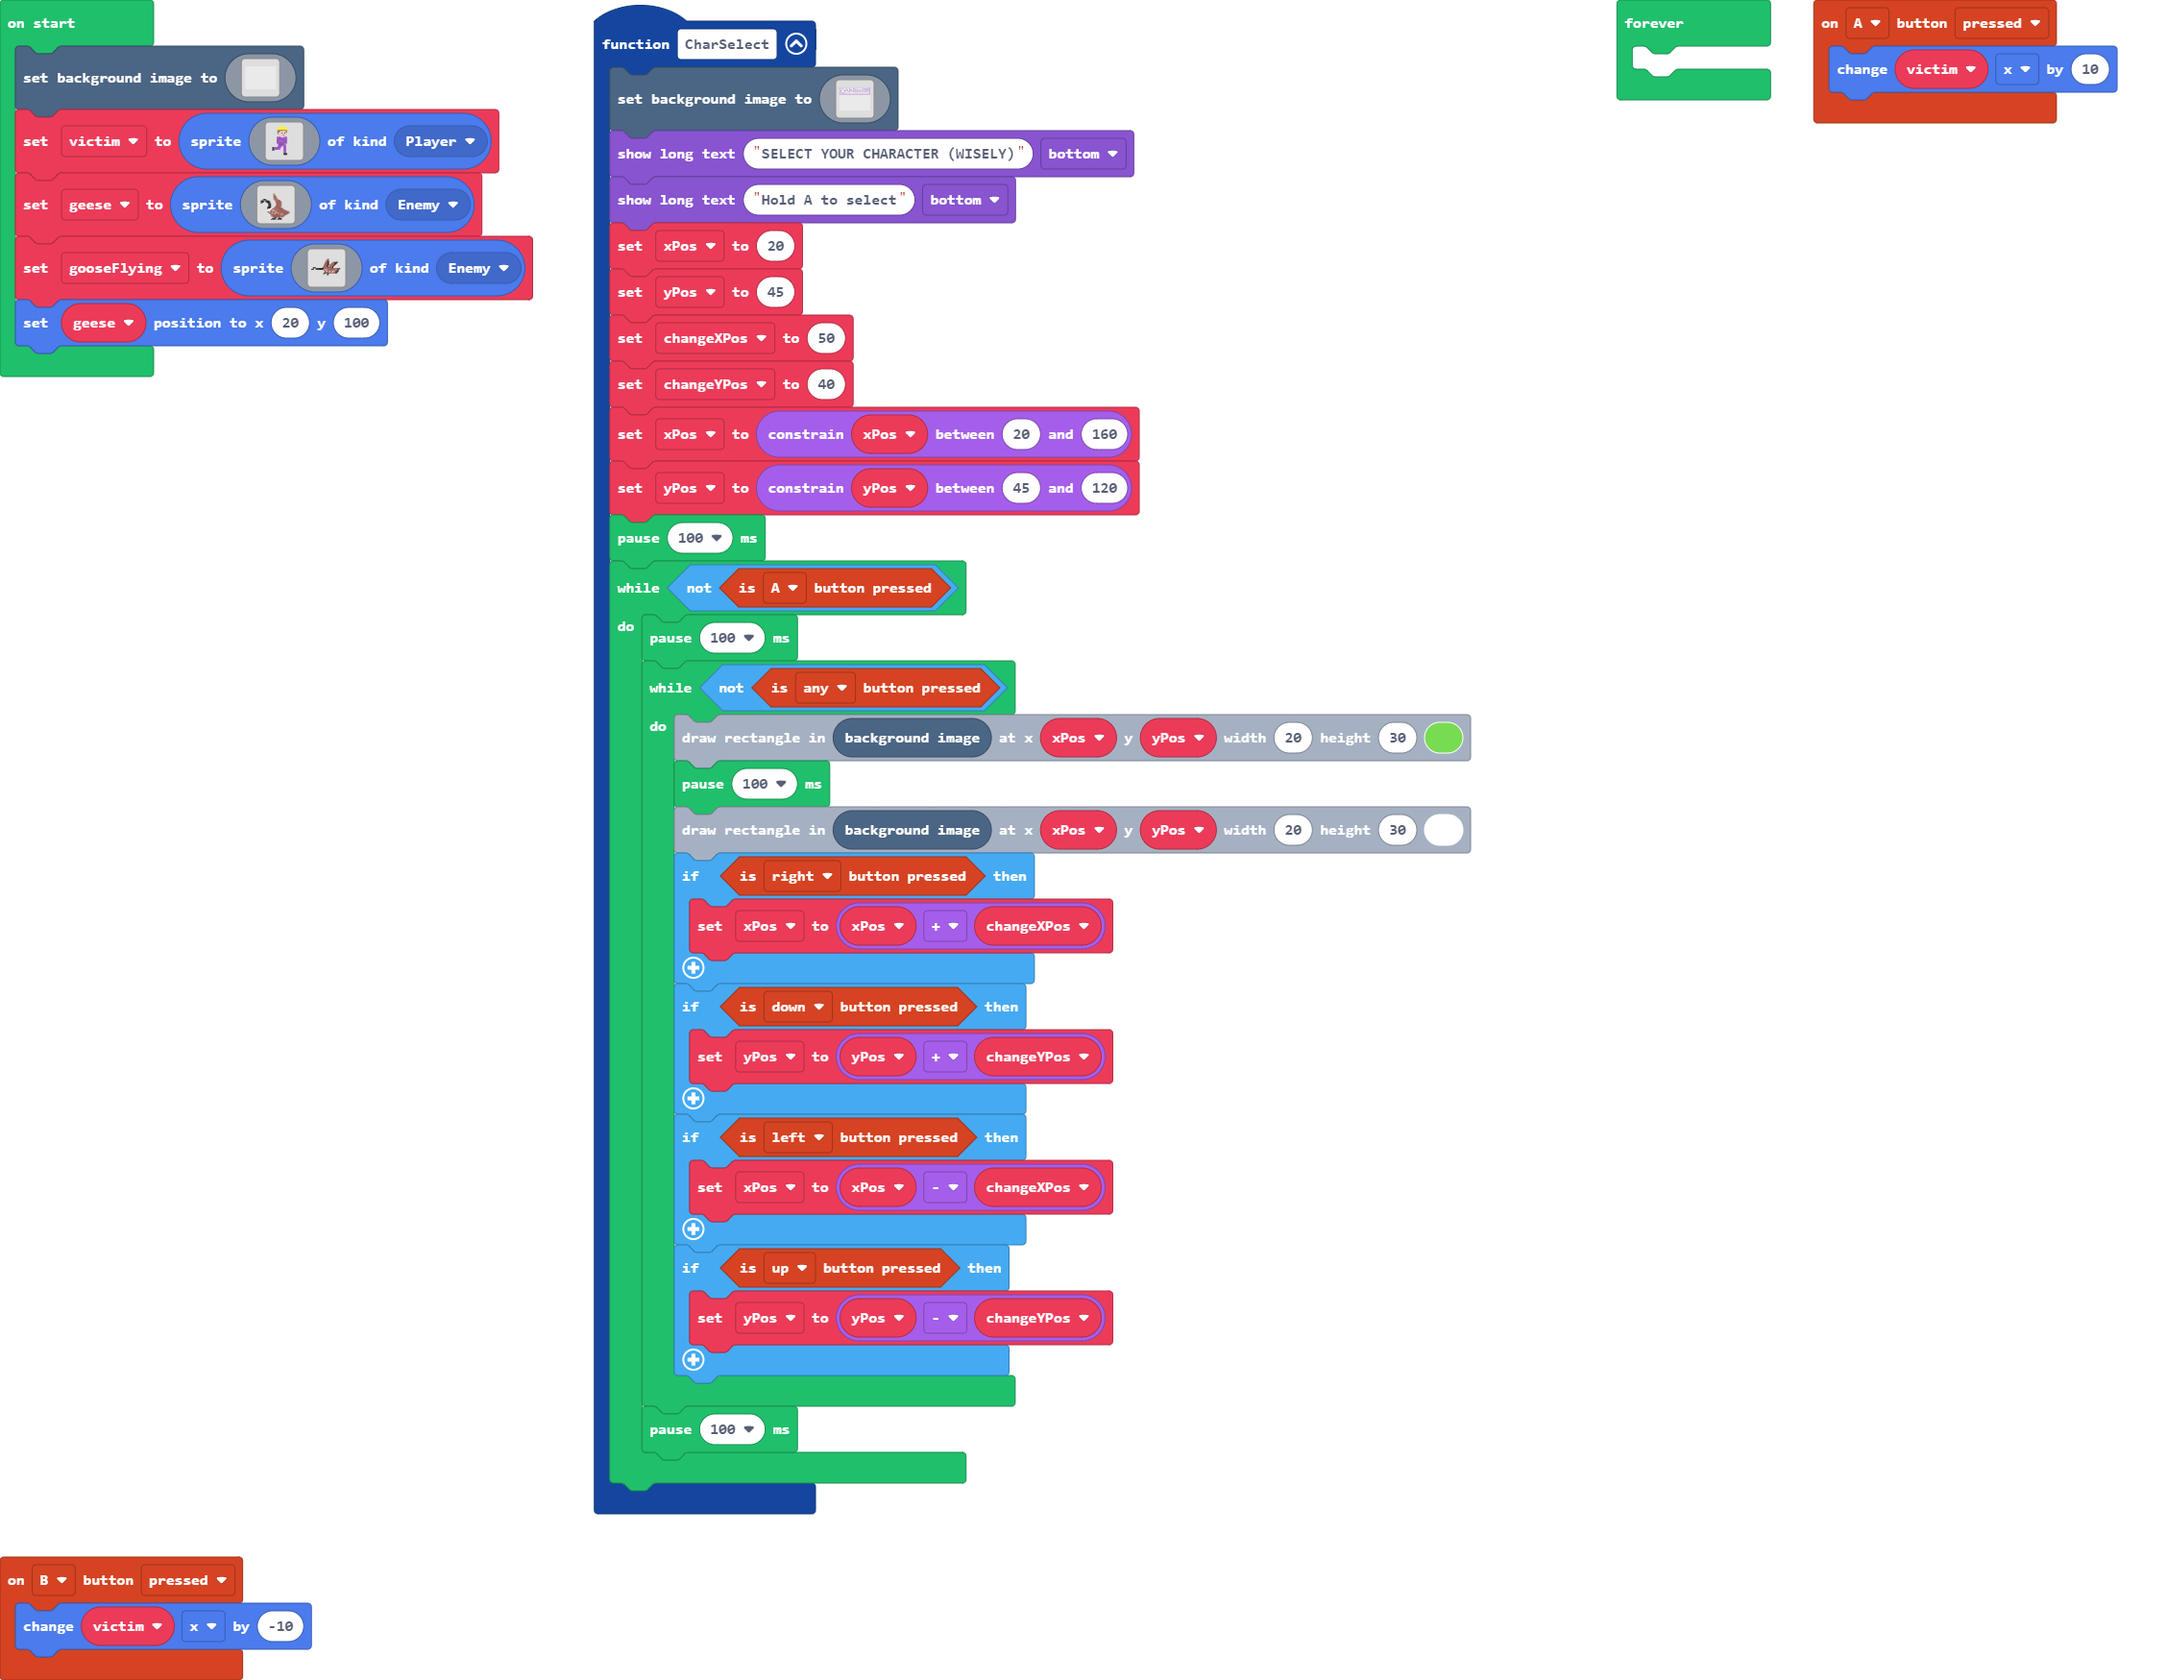
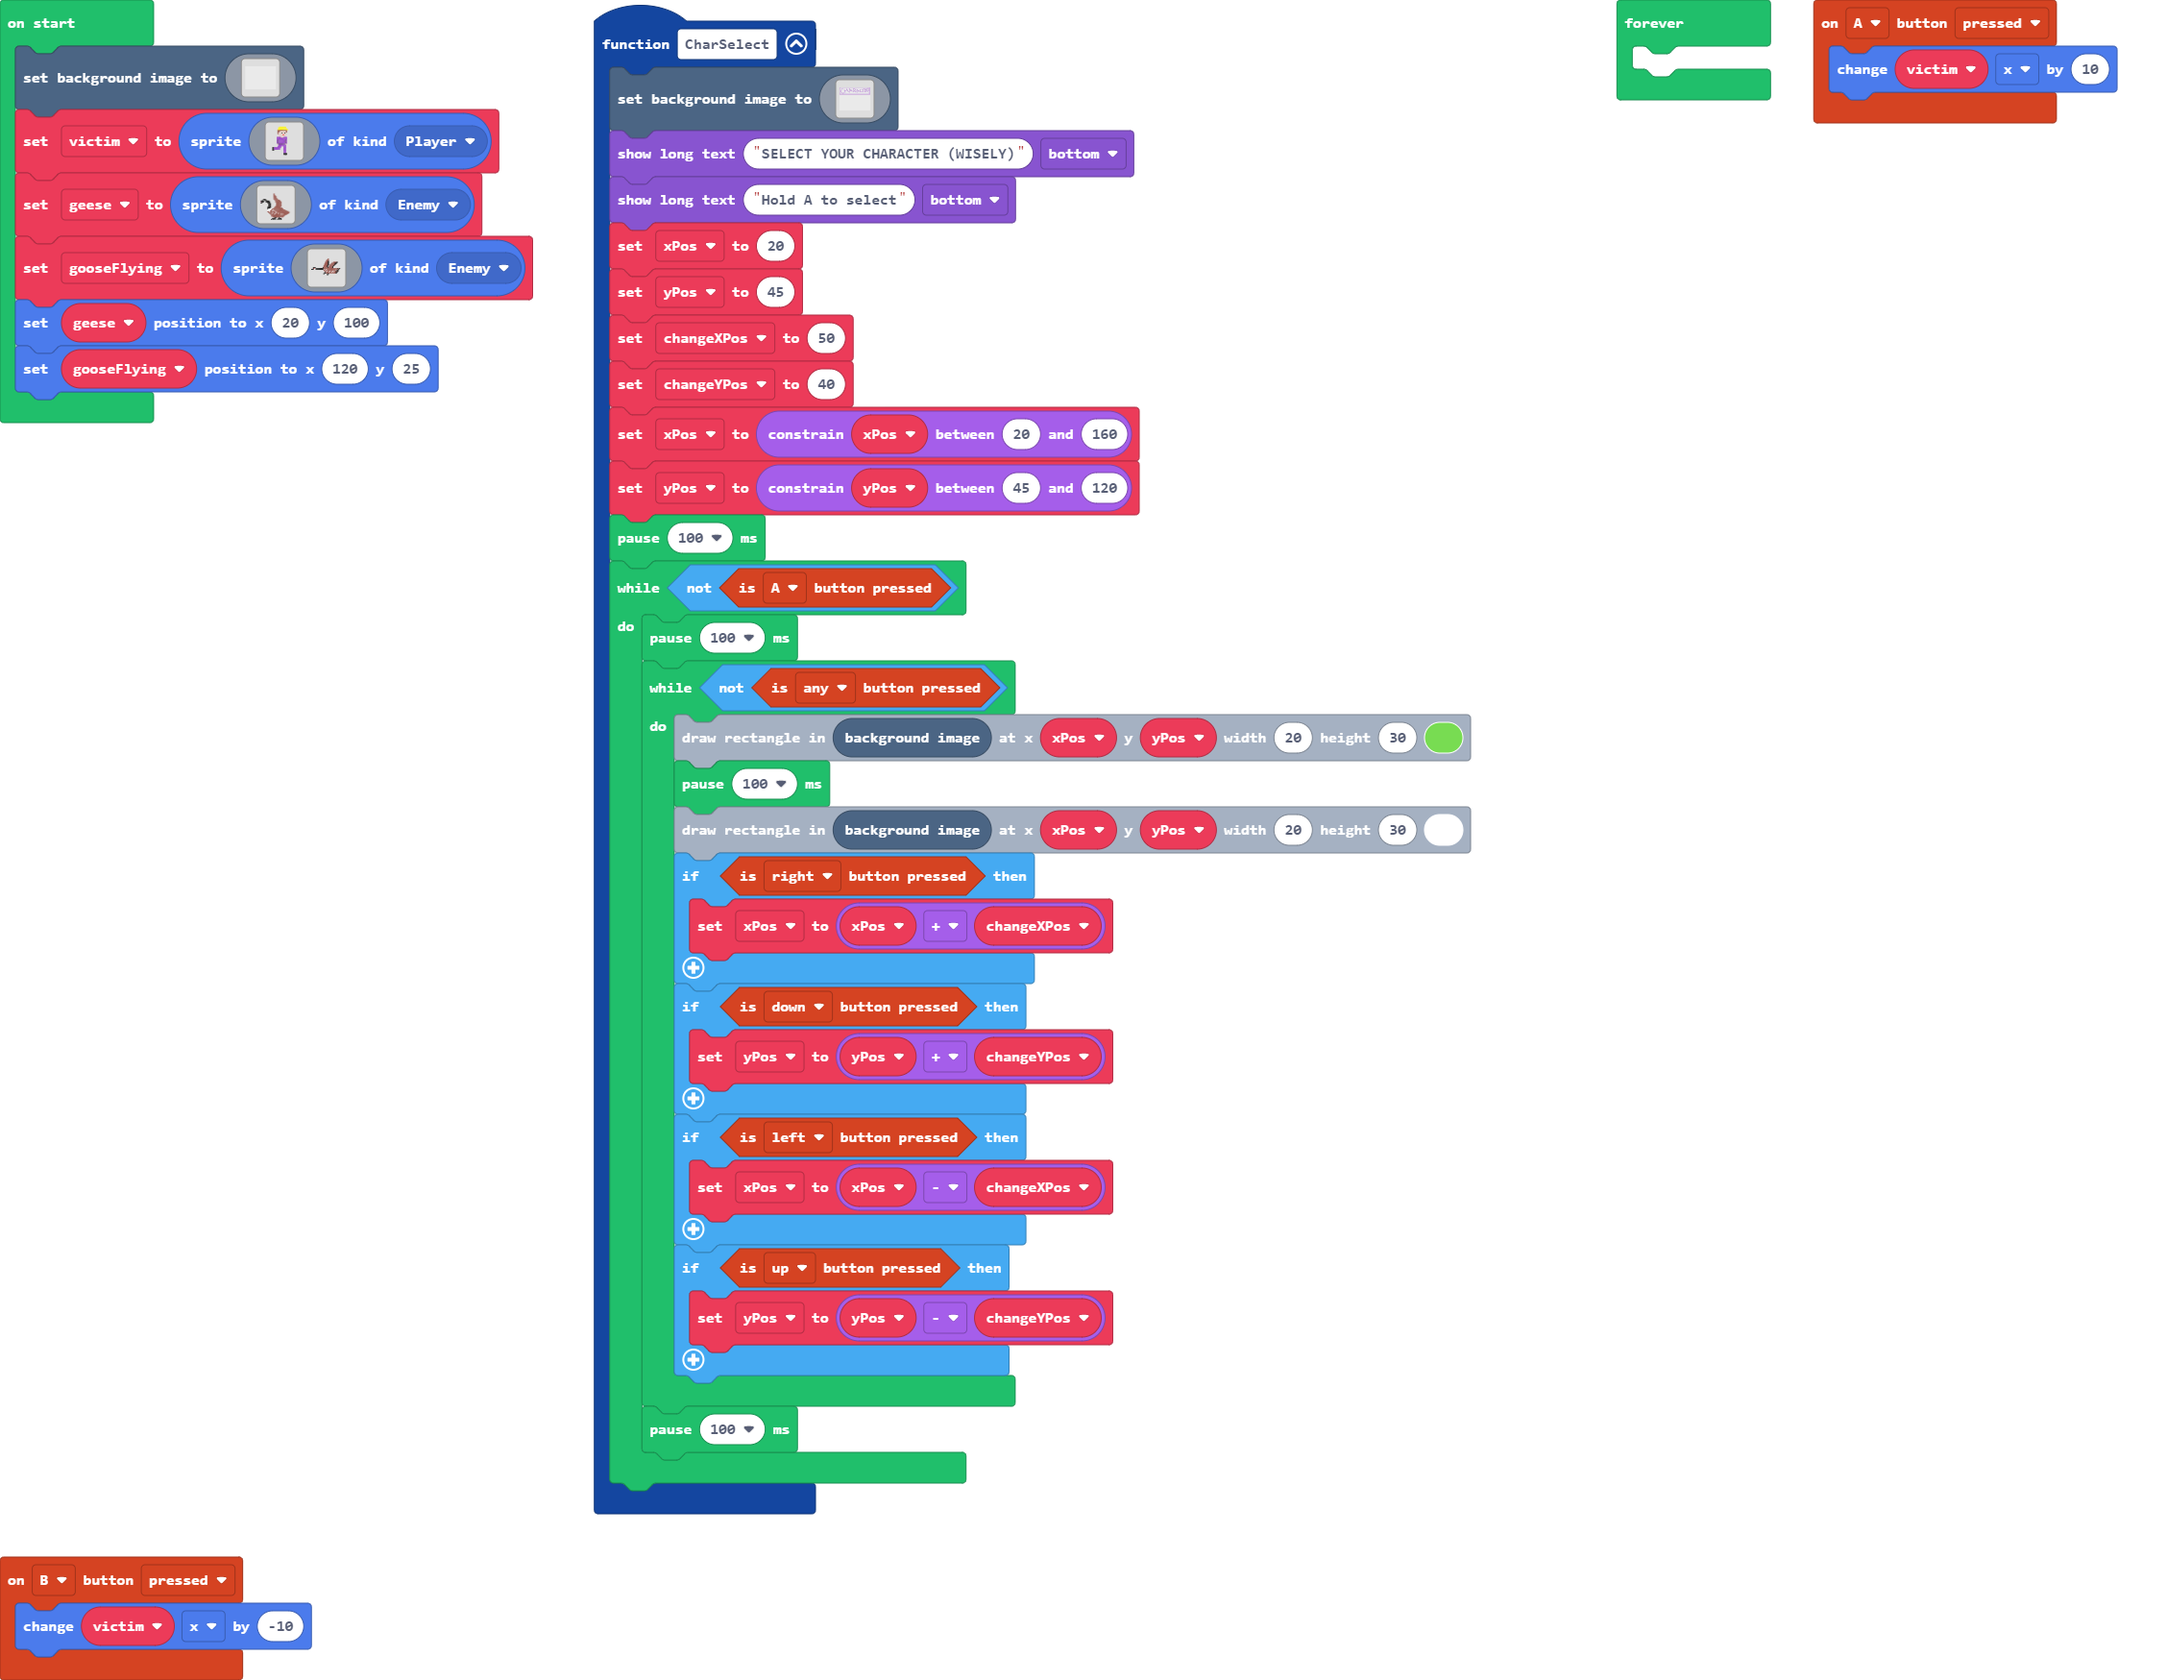
Update main.blocks, main.ts

Changed region(s): [[0.0, 0.1852, 0.2172, 0.2779]]

diff --git a/main.ts b/main.ts
@@ -383,6 +383,7 @@ let gooseFlying = sprites.create(img`
     ...................................
     `, SpriteKind.Enemy)
 geese.setPosition(20, 100)
+gooseFlying.setPosition(120, 25)
 forever(function () {
 	
 })
